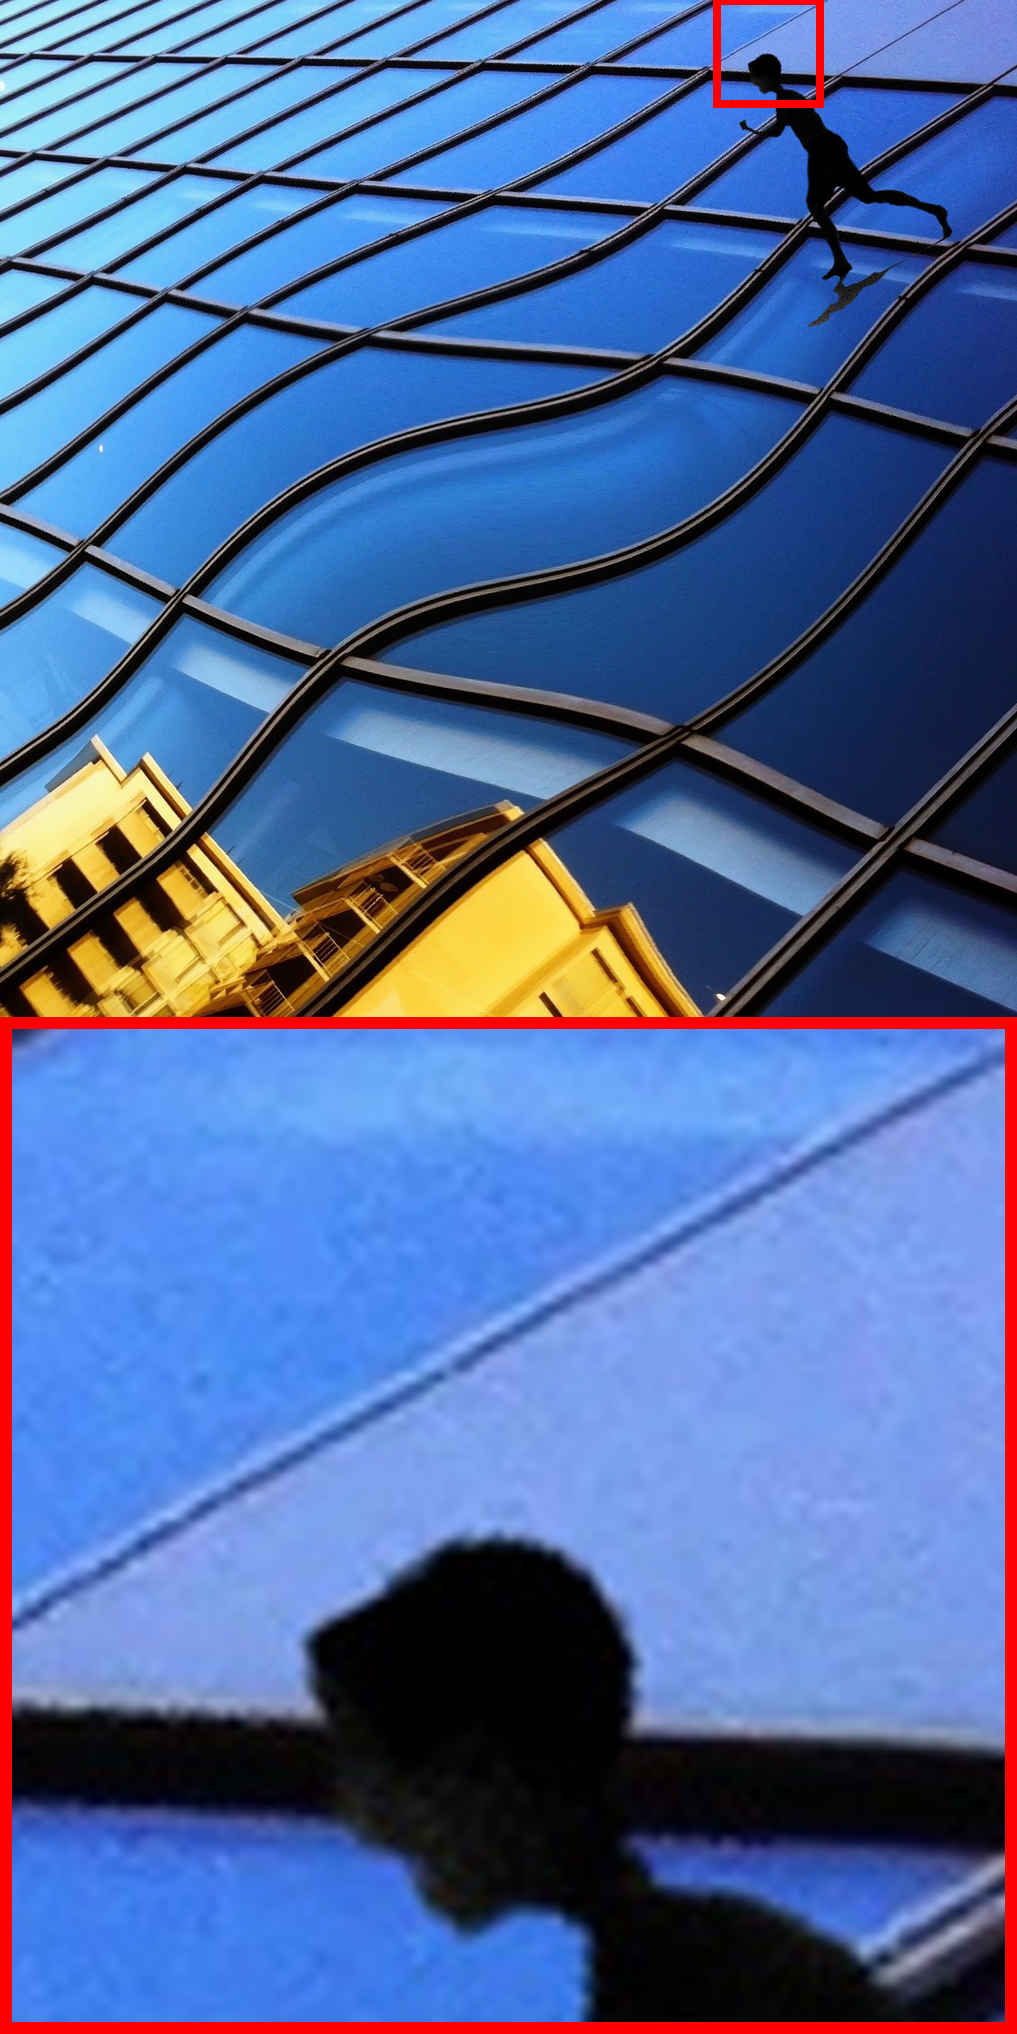
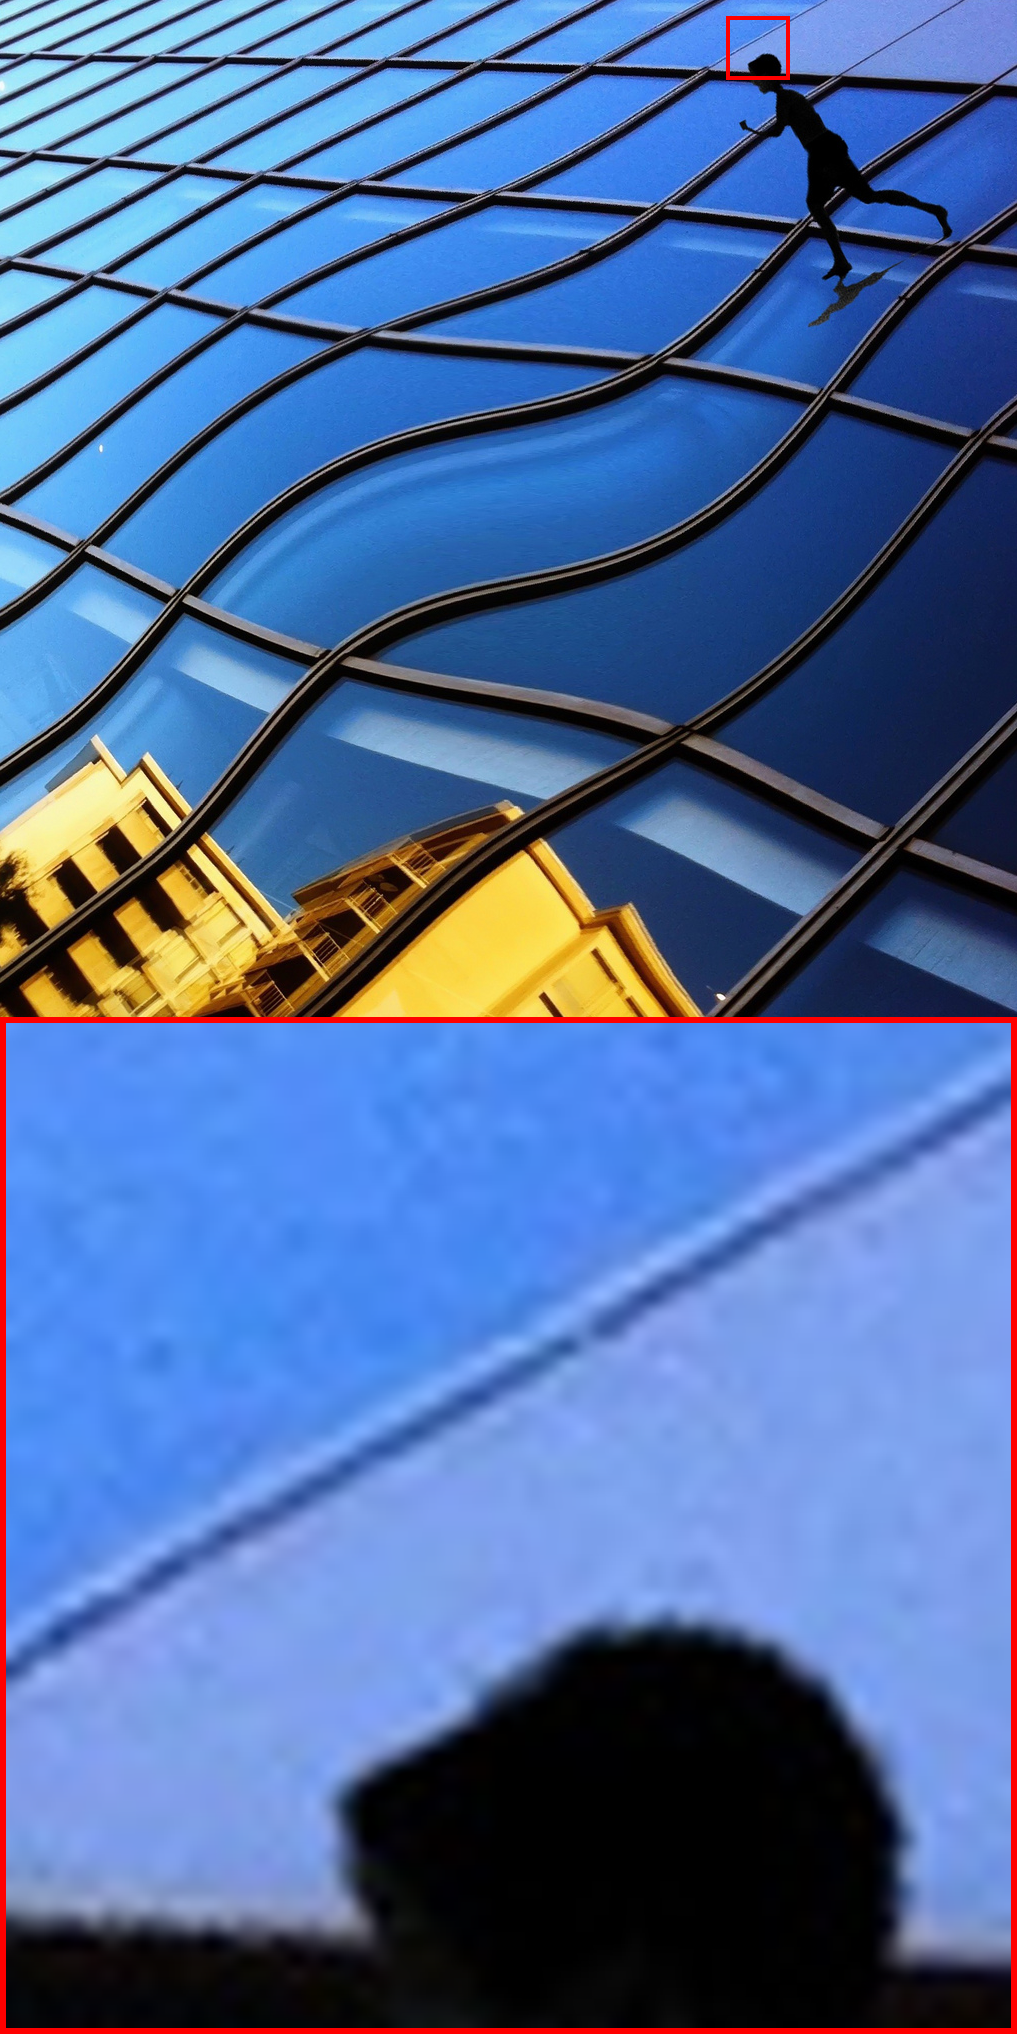
[doc] Qulitative result figure updated

Changed region(s): [[0.0, 0.4956, 1.0, 1.0], [0.7011, 0.0, 0.823, 0.0619]]

diff --git a/paper/RCN_CVPR_ID0000.tex b/paper/RCN_CVPR_ID0000.tex
@@ -654,39 +654,19 @@ In Figures \ref{fig:c1}, \ref{fig:c2} and \ref{fig:c3} we compare our method wit
 \small
 \setlength{\tabcolsep}{5pt}
 \begin{tabular}{ c C{3.5cm}  C{3.5cm}  C{3.5cm}  }
-\multirow{4}{*}{\graphicspath{{figs/fig1/}}\includegraphics[width=0.27\textwidth]{img053_GTbox.png}}
-& \raisebox{-13.0ex} {\graphicspath{{figs/fig1/}}\includegraphics[width=0.2\textwidth]{img053_for_fig1_HR.png}}\vspace{0.3ex}
-& \raisebox{-13.0ex} {\graphicspath{{figs/fig1/}}\includegraphics[width=0.2\textwidth]{img053_for_fig1_A+.png}}\vspace{0.3ex}
-& \raisebox{-13.0ex} {\graphicspath{{figs/fig1/}}\includegraphics[width=0.2\textwidth]{img053_for_fig1_SRCNN.png}}\vspace{0.3ex}
+\multirow{4}{*}{\graphicspath{{figs/fig1/}}\includegraphics[width=0.27\textwidth]{img096_GTbox.png}}
+& \raisebox{-13.0ex} {\graphicspath{{figs/fig1/}}\includegraphics[width=0.2\textwidth]{img096_for_fig1_HR.png}}\vspace{0.3ex}
+& \raisebox{-13.0ex} {\graphicspath{{figs/fig1/}}\includegraphics[width=0.2\textwidth]{img096_for_fig1_A+.png}}\vspace{0.3ex}
+& \raisebox{-13.0ex} {\graphicspath{{figs/fig1/}}\includegraphics[width=0.2\textwidth]{img096_for_fig1_SRCNN.png}}\vspace{0.3ex}
 \\
-& HR (PSNR, SSIM)& A+ (22.42, 0.7482)& SRCNN (22.81, 0.7574)\\
-& \raisebox{-13.0ex} {\graphicspath{{figs/fig1/}}\includegraphics[width=0.2\textwidth]{img053_for_fig1_RFL.png}}\vspace{0.3ex}
-& \raisebox{-13.0ex} {\graphicspath{{figs/fig1/}}\includegraphics[width=0.2\textwidth]{img053_for_fig1_SelfEx.png}}\vspace{0.3ex}
-& \raisebox{-13.0ex} {\graphicspath{{figs/fig1/}}\includegraphics[width=0.2\textwidth]{img053_for_fig1_RCN.png}}\vspace{0.3ex}
+& Original(PSNR, SSIM)& A+ (23.99, 0.8320)& SRCNN (24.74, 0.8459)\\
+& \raisebox{-13.0ex} {\graphicspath{{figs/fig1/}}\includegraphics[width=0.2\textwidth]{img096_for_fig1_RFL.png}}\vspace{0.3ex}
+& \raisebox{-13.0ex} {\graphicspath{{figs/fig1/}}\includegraphics[width=0.2\textwidth]{img096_for_fig1_SelfEx.png}}\vspace{0.3ex}
+& \raisebox{-13.0ex} {\graphicspath{{figs/fig1/}}\includegraphics[width=0.2\textwidth]{img096_for_fig1_RCN.png}}\vspace{0.3ex}
 \\
-& RFL (22.35, 0.7425)& SelfEx (22.80, 0.7615)& RCN 91 (23.34, 0.7838)\\
+& RFL (23.95, 0.8230)& SelfEx (25.46, 0.8635)& RCN (25.86, 0.8867)\\
 \end{tabular}
-\caption{Super-resolution results of ``img053"(Urban100) with scale factor $\times$3. Our result is visually pleasing.}
-\end{center}
-\end{adjustwidth}
-\end{figure*}
-\begin{figure*}
-\begin{adjustwidth}{0.5cm}{0.5cm}
-\begin{center}
-\small
-\setlength{\tabcolsep}{3pt}
-\begin{tabular}{  c  c  c  c  c  c  }
-{\graphicspath{{figs/fig2/}}\includegraphics[width=0.15\textwidth]{img058_for_fig2_HR.png}}
-& {\graphicspath{{figs/fig2/}}\includegraphics[width=0.15\textwidth]{img058_for_fig2_A+.png}}
-& {\graphicspath{{figs/fig2/}}\includegraphics[width=0.15\textwidth]{img058_for_fig2_SRCNN.png}}
-& {\graphicspath{{figs/fig2/}}\includegraphics[width=0.15\textwidth]{img058_for_fig2_RFL.png}}
-& {\graphicspath{{figs/fig2/}}\includegraphics[width=0.15\textwidth]{img058_for_fig2_SelfEx.png}}
-& {\graphicspath{{figs/fig2/}}\includegraphics[width=0.15\textwidth]{img058_for_fig2_RCN.png}}
-\\
-HR& A+& SRCNN& RFL& SelfEx& RCN 91\\
-(PSNR, SSIM)& (26.08, 0.8682)& (26.39, 0.8709)& (25.95, 0.8629)& (27.12, 0.8919)& (27.30, 0.8923)\\
-\end{tabular}
-\caption{Super-resolution results of ``img058"(Urban100) with scale factor $\times$3. Our result is visually pleasing.}
+\caption{Super-resolution results of ``img096"(Urban100) with scale factor $\times$3. Our result is visually pleasing.}
 \end{center}
 \end{adjustwidth}
 \end{figure*}
@@ -704,14 +684,34 @@ HR& A+& SRCNN& RFL& SelfEx& RCN 91\\
 & {\graphicspath{{figs/fig2/}}\includegraphics[width=0.15\textwidth]{img082_for_fig2_SelfEx.png}}
 & {\graphicspath{{figs/fig2/}}\includegraphics[width=0.15\textwidth]{img082_for_fig2_RCN.png}}
 \\
-HR& A+& SRCNN& RFL& SelfEx& RCN 91\\
-(PSNR, SSIM)& (32.49, 0.9425)& (32.59, 0.9409)& (32.35, 0.9389)& (33.21, 0.9453)& (34.36, 0.9548)\\
+Original& A+& SRCNN& RFL& SelfEx& RCN\\
+(PSNR, SSIM)& (32.49, 0.9425)& (32.59, 0.9409)& (32.35, 0.9389)& (33.21, 0.9453)& (34.46, 0.9553)\\
 \end{tabular}
 \caption{Super-resolution results of ``img082"(Urban100) with scale factor $\times$3. Our result is visually pleasing.}
 \end{center}
 \end{adjustwidth}
 \end{figure*}
 
+\begin{figure*}
+\begin{adjustwidth}{0.5cm}{0.5cm}
+\begin{center}
+\small
+\setlength{\tabcolsep}{3pt}
+\begin{tabular}{  c  c  c  c  c  c  }
+{\graphicspath{{figs/fig2/}}\includegraphics[width=0.15\textwidth]{img099_for_fig2_HR.png}}
+& {\graphicspath{{figs/fig2/}}\includegraphics[width=0.15\textwidth]{img099_for_fig2_A+.png}}
+& {\graphicspath{{figs/fig2/}}\includegraphics[width=0.15\textwidth]{img099_for_fig2_SRCNN.png}}
+& {\graphicspath{{figs/fig2/}}\includegraphics[width=0.15\textwidth]{img099_for_fig2_RFL.png}}
+& {\graphicspath{{figs/fig2/}}\includegraphics[width=0.15\textwidth]{img099_for_fig2_SelfEx.png}}
+& {\graphicspath{{figs/fig2/}}\includegraphics[width=0.15\textwidth]{img099_for_fig2_RCN.png}}
+\\
+Original& A+& SRCNN& RFL& SelfEx& RCN\\
+(PSNR, SSIM)& (24.97, 0.7606)& (25.49, 0.7710)& (24.53, 0.7460)& (25.65, 0.7921)& (26.30, 0.8177)\\
+\end{tabular}
+\caption{Super-resolution results of ``img099"(Urban100) with scale factor $\times$3. Our result is visually pleasing.}
+\end{center}
+\end{adjustwidth}
+\end{figure*}
 
 %
 %
